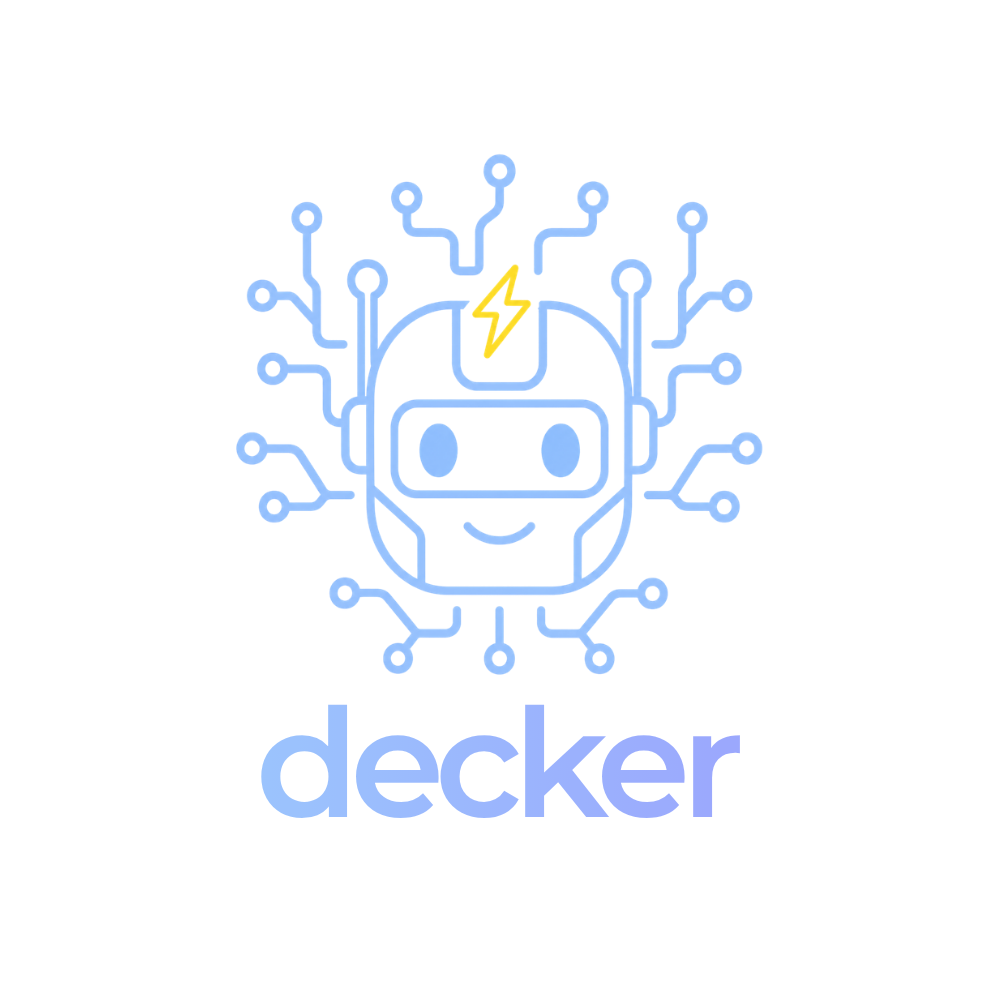
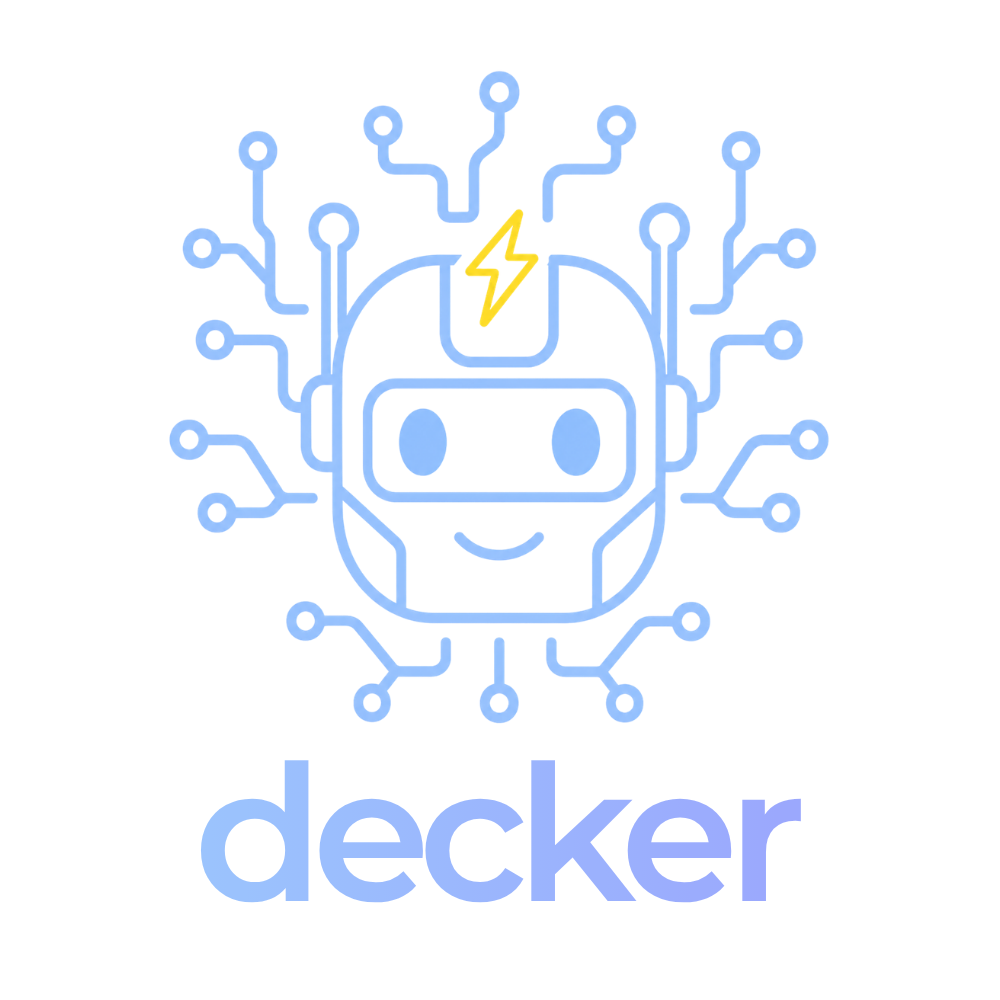
update badges and image

Changed region(s): [[0.155, 0.062, 0.837, 0.899]]

diff --git a/README.md b/README.md
@@ -4,12 +4,12 @@
 
 <p align="center">
   <a href="https://github.com/flashbots/decker/actions/workflows/ci.yml"><img src="https://github.com/flashbots/decker/actions/workflows/ci.yml/badge.svg" alt="CI"></a>
-  <a href="https://github.com/flashbots/decker/releases"><img src="https://img.shields.io/github/v/release/flashbots/decker?logo=github" alt="Release"></a>
-  <a href="LICENSE"><img src="https://img.shields.io/github/license/flashbots/decker" alt="License: MIT"></a>
+  <a href="https://github.com/flashbots/decker/releases"><img src="https://badgen.net/github/release/flashbots/decker?icon=github&color=orange" alt="Release"></a>
+  <a href="LICENSE"><img src="https://img.shields.io/badge/license-MIT-2bbc8a" alt="License: MIT"></a>
   <a href="https://deno.com"><img src="https://img.shields.io/badge/Deno-2-blue?logo=deno&logoColor=white" alt="Deno"></a>
 </p>
 
-_Deck your own devnet_
+<h3 align="center">Deck your own devnet</h3>
 
 Decker lets you kickstart and vibecode any dev setup with complete freedom — powered by Deno, TypeScript and agent-first patterns!
 